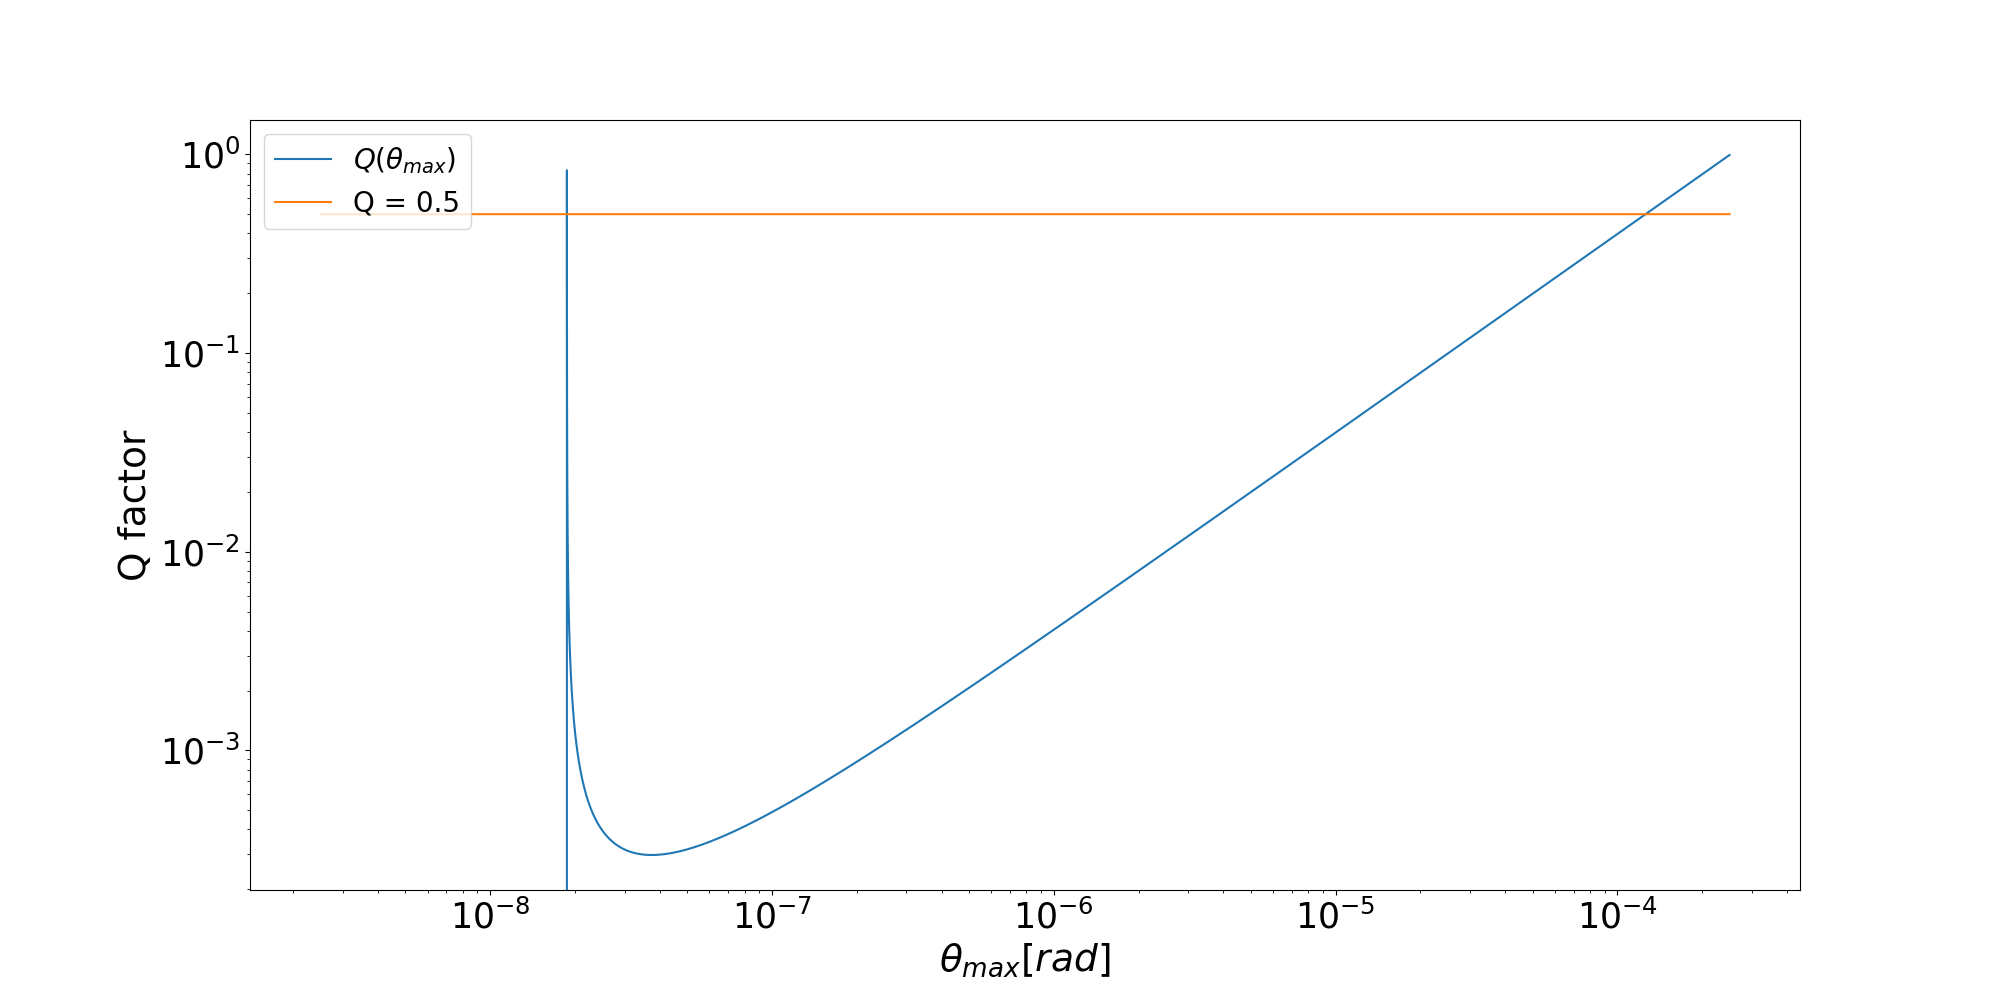
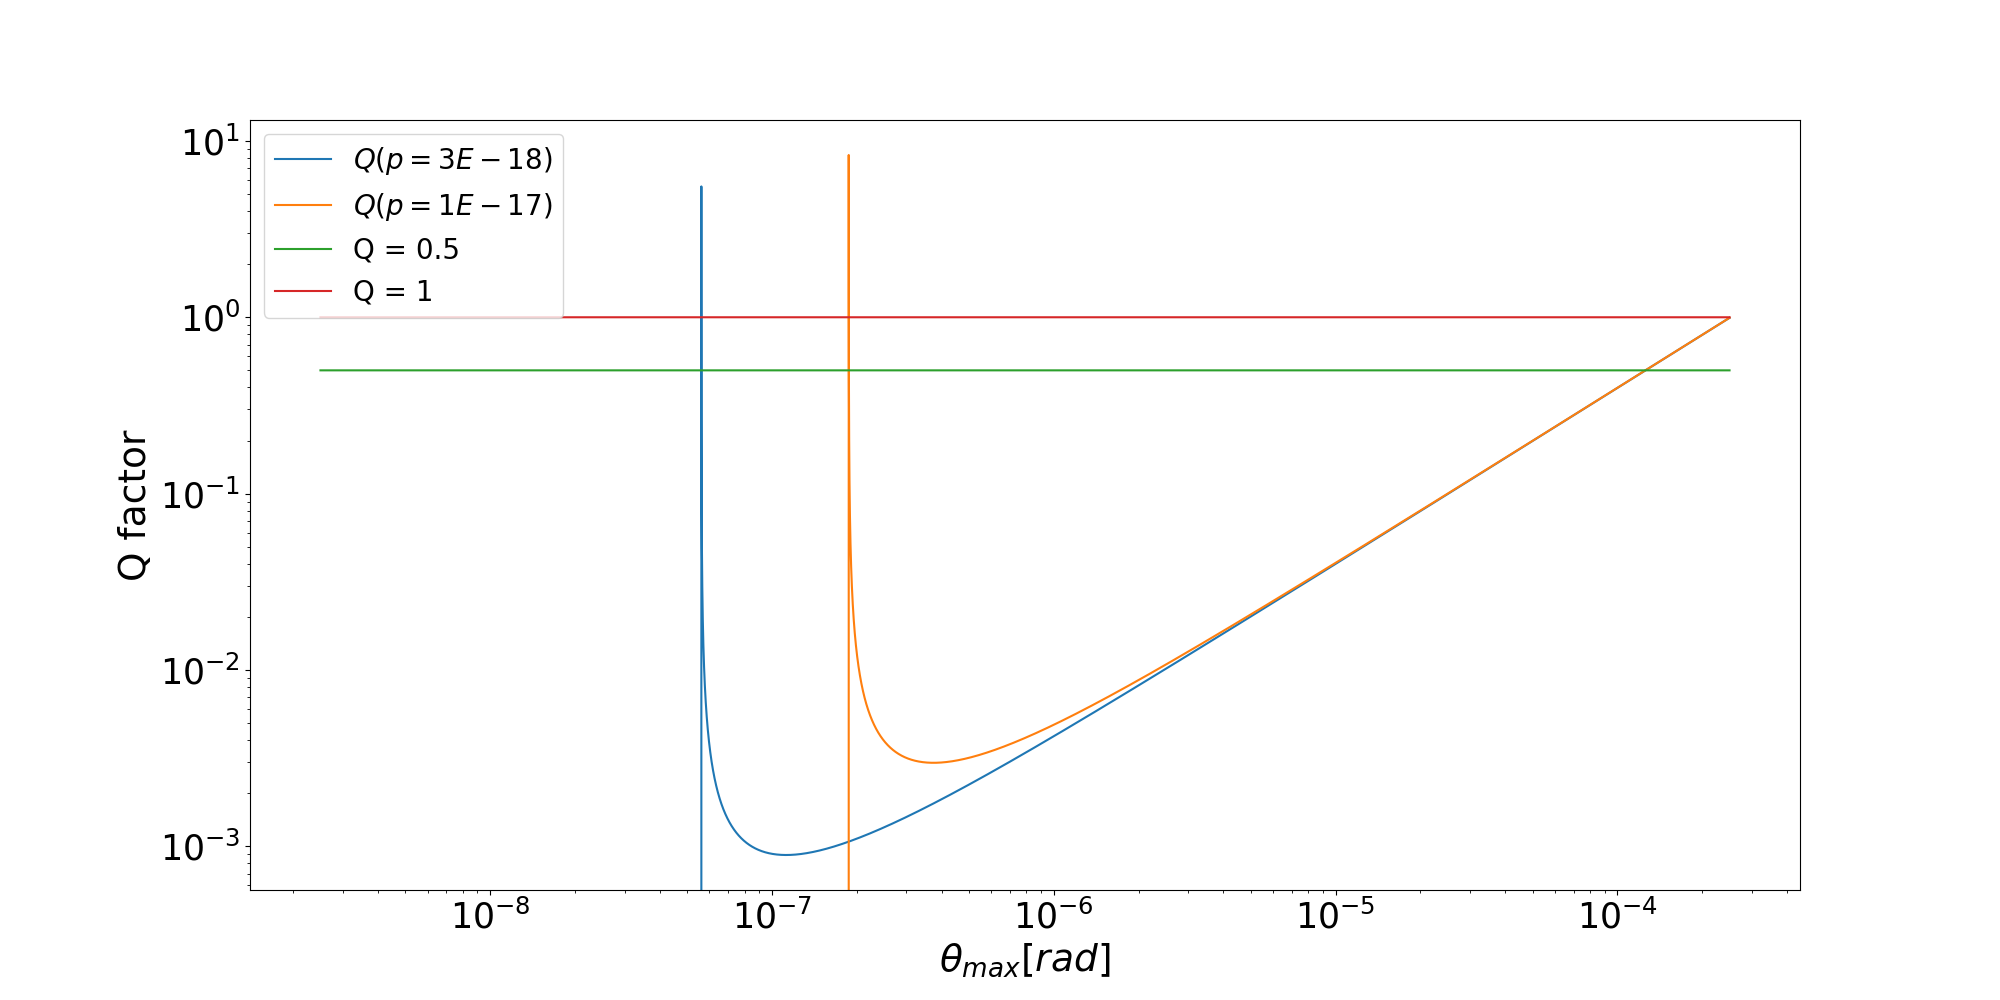
auto

diff --git a/python/Q factor.py b/python/Q factor.py
@@ -8,35 +8,37 @@ def fonts_define(xtitle,ytitle,lgd,font=25):
     plt.rc('xtick', labelsize=font) 
     plt.rc('ytick', labelsize=font)
     plt.legend(lgd,loc=2, prop={'size': 20})
-n =int(1e5+1)
-initaial = -4
-final = -9
-theta = 2.5*10**(np.arange(n)[::-1]/(n-1)*(initaial - final)+final )
-kappa = 2.7e-6
-T=40
-tau=6.8e-10
-p=np.ones([n])*1E-18
+def Q(p=1E-18, ones = False):
+    n =int(1e5+1)
+    initaial = -4
+    final = -9
+    theta = 2.5*10**(np.arange(n)[::-1]/(n-1)*(initaial - final)+final )
+    kappa = 2.7e-6
+    T=40
+    tau=6.8e-10
+    p=np.ones([n])*p
+    
+    Q = np.pi/T*( (kappa*(theta**2)) / (theta*np.pi*tau/T-p))
+    # for i,q in enumerate(Q):
+    #     if q<0:
+    #         break
+    # theta = theta[:i]
+    # Q = Q[:i]
+    # ones = np.ones([i])
+    plt.plot(theta,Q)
 
-Q = np.pi/T*( (kappa*(theta**2)) / (theta*np.pi*tau/T-p))
-# for i,q in enumerate(Q):
-#     if q<0:
-#         break
-# theta = theta[:i]
-# Q = Q[:i]
-# ones = np.ones([i])
-
-ones = np.ones(theta.shape[0])
-plt.plot(theta,Q)
-
-plt.plot(theta,ones*0.5)
-# plt.plot(theta,ones*1)
-# plt.plot(theta,ones*1e-9)
-
-plt.yscale('log')
-plt.xscale('log')
-
-
-fonts_define(r'$\theta_{max} [rad]$','Q factor',[r'$Q(\theta_{max})$','Q = 0.5'],font=25)
+    if ones:
+        ones = np.ones(theta.shape[0])
+        
+        plt.plot(theta,ones*0.5)
+        plt.plot(theta,ones*1)
+    # plt.plot(theta,ones*1e-9)
+    
+    plt.yscale('log')
+    plt.xscale('log')
+Q(p=3E-18 )
+Q(p=1E-17,ones=True )
+fonts_define(r'$\theta_{max} [rad]$','Q factor',[r'$Q(p=3E-18)$',r'$Q(p=1E-17)$','Q = 0.5','Q = 1'],font=25)
 
 plt.savefig('Q factor.png')
         

diff --git a/chapters/4 - methods and results.tex b/chapters/4 - methods and results.tex
@@ -301,7 +301,7 @@ The damping would effect the motion when the oscillator is not highly underdampe
 \label{eqn:low Q}
 \end{equation}
 
-It can be seen from eq.~\ref{eqn:Q} that when $Q<0$ the coupled noise power is larger than the work done by the PID, causing the oscillator to be driven. From the actual measured angle one can estimate the effective noise coupled to the system system.
+It can be seen from eq.~\ref{eqn:Q} that when $Q<0$ the coupled noise power is larger than the work done by the PID, causing the oscillator to be driven. From the actual measured angle one can estimate the effective noise coupled to the torsional pendulum.
 
 \begin{figure}[htbp]
 	\centering
